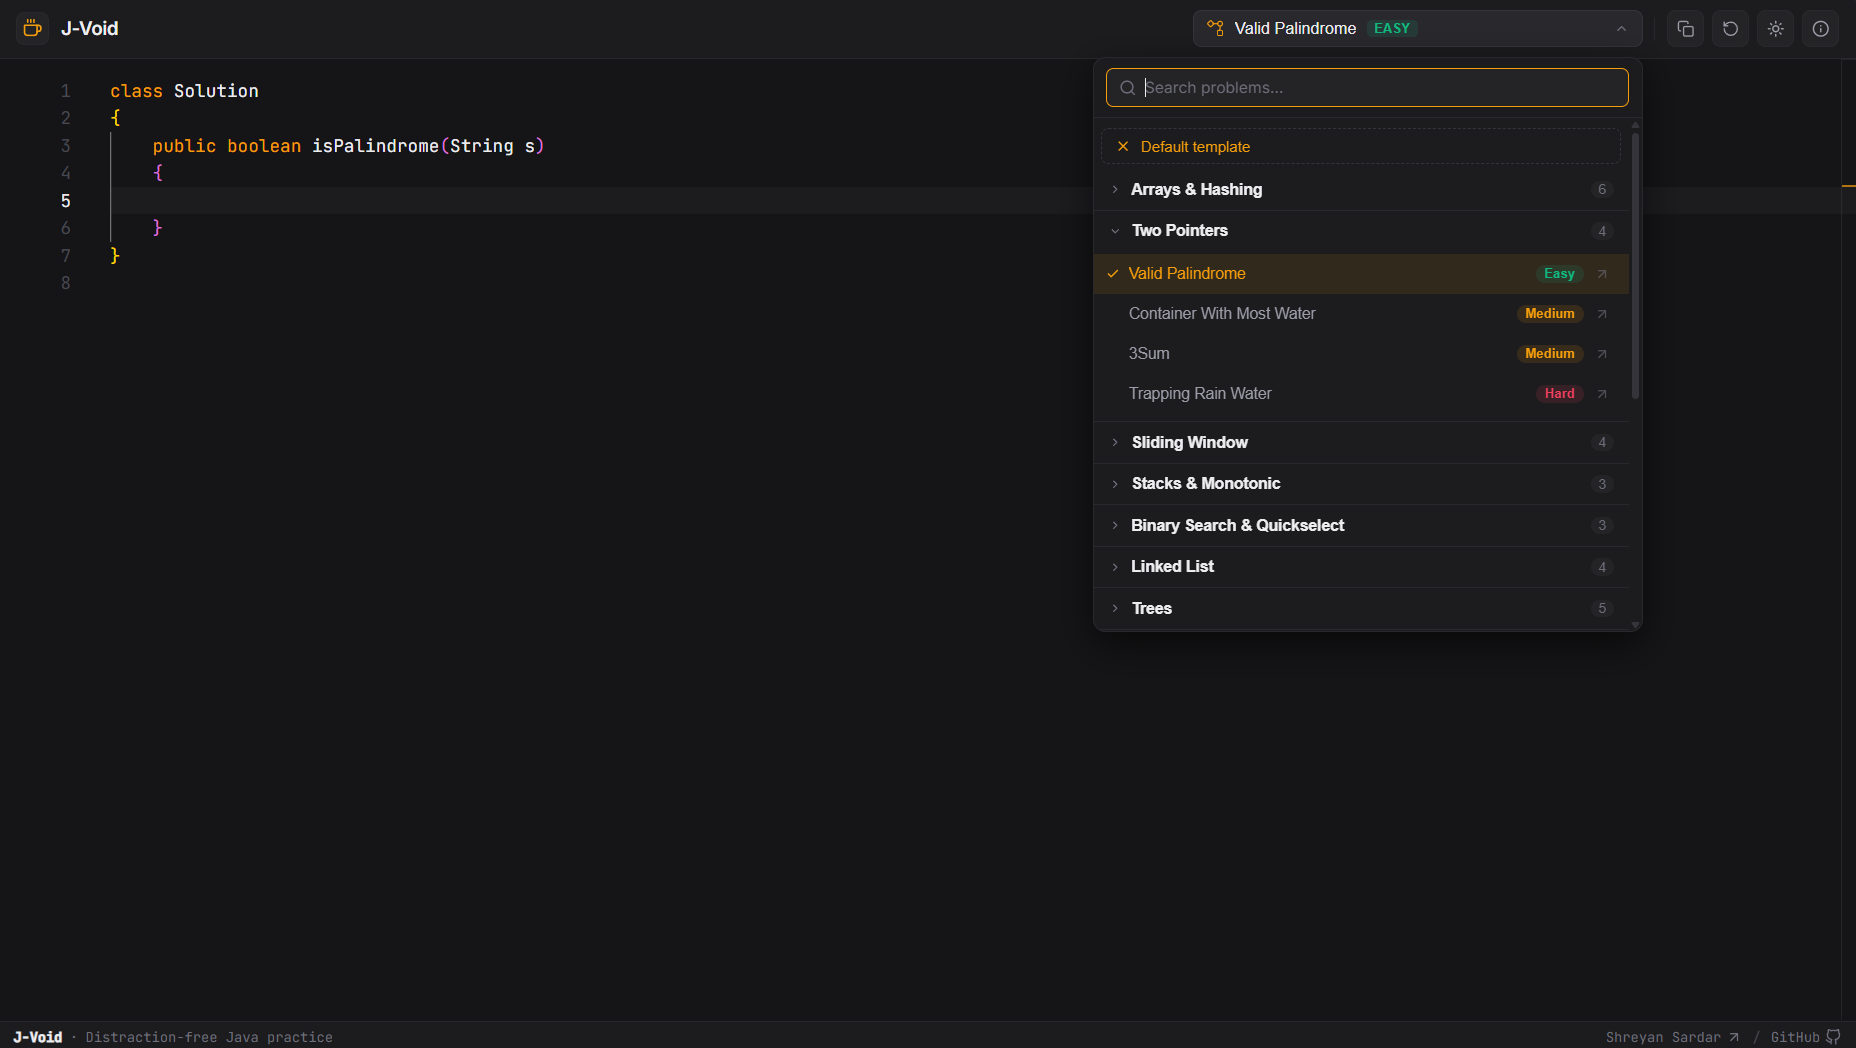
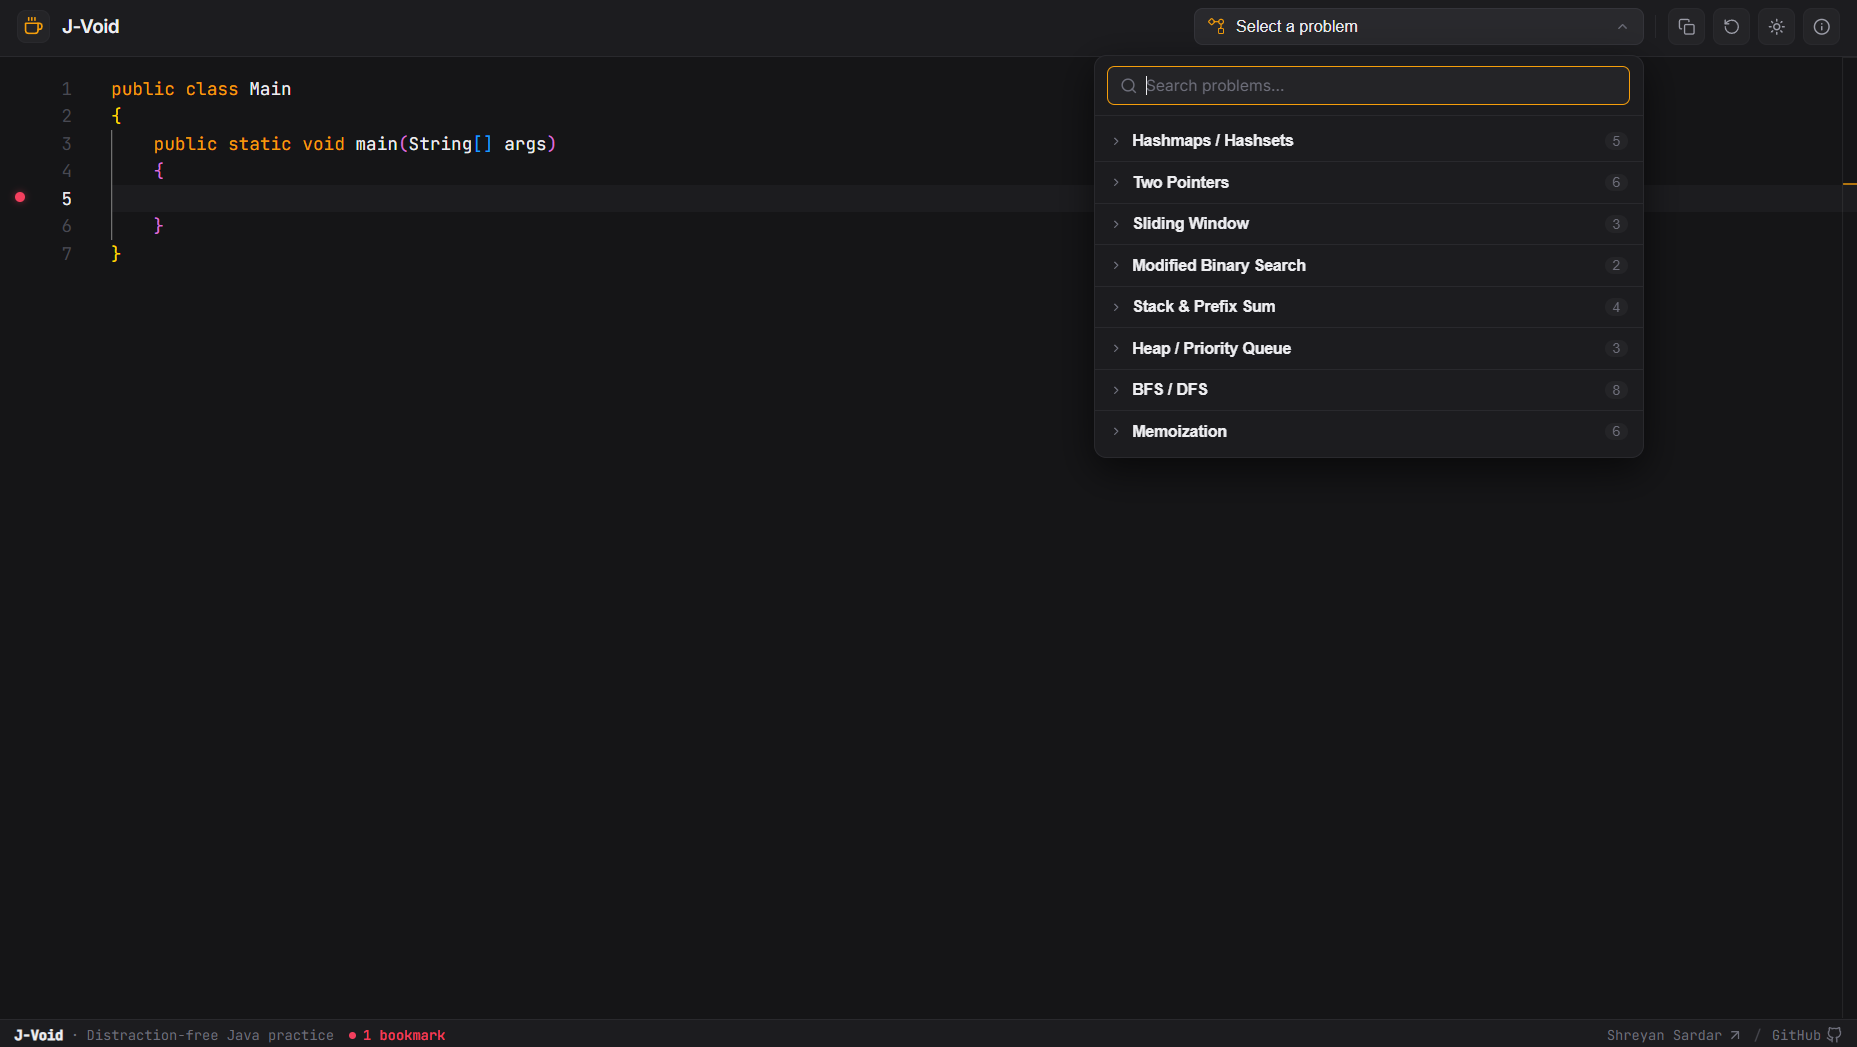
feat: update DSA project counts, polish wrkout copy, and optimize About section for mobile

diff --git a/src/components/AboutSection.tsx b/src/components/AboutSection.tsx
@@ -45,17 +45,15 @@ const AboutSection: FC = () => {
           className="w-full max-w-xl sm:max-w-2xl mx-auto"
         >
           {/* Metadata Bar */}
-          <div className="flex items-center justify-center gap-2.5 sm:gap-3 text-[11.5px] sm:text-xs text-warm-500 font-mono font-normal mb-3 sm:mb-3.5 flex-wrap">
+          <div className="flex flex-wrap items-center justify-center gap-x-4 sm:gap-x-5 gap-y-2 text-[11.5px] sm:text-xs text-warm-500 font-mono font-normal mb-3 sm:mb-3.5">
             <div className="flex items-center gap-1.5">
               <MapPin size={13} className="text-emerald-400 shrink-0" />
               <span>Kolkata, India (Remote)</span>
             </div>
-            <span className="text-warm-600">•</span>
             <div className="flex items-center gap-1.5">
               <Clock size={13} className="text-emerald-400 shrink-0" />
               <span>{currentTime || "IST"}</span>
             </div>
-            <span className="text-warm-600">•</span>
             <div className="flex items-center gap-1.5">
               <User size={13} className="text-emerald-400 shrink-0" />
               <span>23 y/o</span>
@@ -63,7 +61,7 @@ const AboutSection: FC = () => {
           </div>
 
           {/* Bio Paragraphs */}
-          <div className="text-[14.5px] sm:text-[15px] md:text-[15.5px] leading-[1.5] sm:leading-[1.55] space-y-2.5 sm:space-y-3 font-normal text-left">
+          <div className="text-[14.5px] sm:text-[15px] md:text-[15.5px] leading-[1.6] sm:leading-[1.55] space-y-2.5 sm:space-y-3 font-normal text-left">
             <p className="text-warm-200">
               I'm a self-taught engineer focused on backend systems. I build with Python (FastAPI) and Java (Spring Boot), using AI tools to ship products end-to-end—8 projects built and 6 deployed.
             </p>
